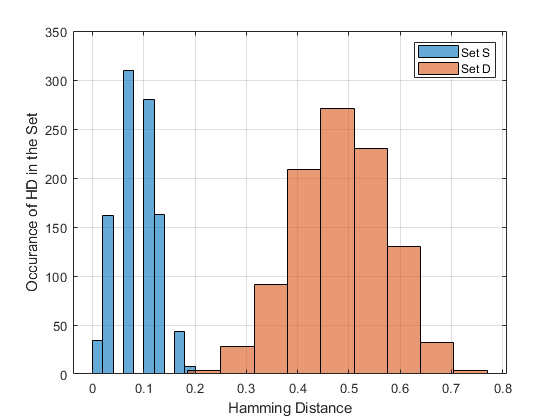
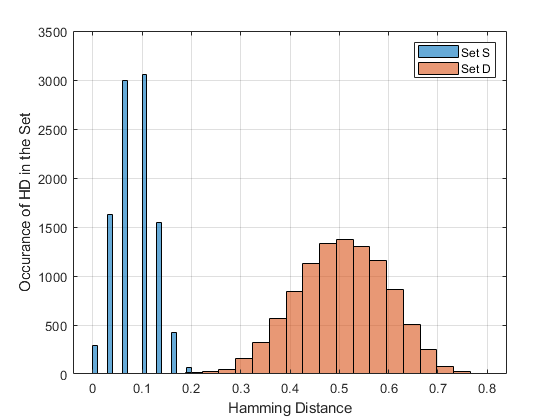
Fixed iteration to 10000

diff --git a/Assignment1/part_B.m b/Assignment1/part_B.m
@@ -1,5 +1,5 @@
 dinfo = dir('person*.mat');
-iterations = 1000;
+iterations = 10000;
 fileNames = {};
 seedData = {};
 for k = 1 : length(dinfo)
@@ -16,10 +16,10 @@ end
         personData = data.iriscode;
         data = personData(randperm(length(personData(:,1)),2),:);
         hd = pdist2(data(1,:), data(2,:), 'hamming');
-        numberOfDifferences = size(data, 2)*hd
+        numberOfDifferences = size(data, 2)*hd;
         fprintf("Computing the Hamming distance for person%02d.mat \n",randomPersonIndx)
         fprintf("Vectors selected \n")
-        data
+        %data
         fprintf("Hammind distance = %f \n", hd);
         fprintf("Number of missmatches in the bit position = %d \n", numberOfDifferences)
         s_set = [s_set; [fileNames(randomPersonIndx), data, hd, numberOfDifferences]];       
@@ -35,7 +35,7 @@ end
         person_j = tmpData_j.iriscode(randperm(length(personData(:,1)),1),:);
         
         hd =  pdist2(person_i,person_j, 'hamming');
-        numberOfDiff = size(person_i, 2)*hd
+        numberOfDiff = size(person_i, 2)*hd;
         
         fprintf("Computing the Hamming distance between person%02d.mat and person%02d.mat \n",randomPersons(1), randomPersons(2))
         fprintf("Vectors selected \n")
@@ -54,7 +54,7 @@ end
     [~, binD] = histcounts(hd_d);
     bins = floor(min(size(binS, 2), size(binD, 2))/2);
     fprintf("\n---------------------------------BINS USED TO PLOT THE HISTOGRAM-----------------------------------\n")
-    fprintf("BINS = %d", bins);
+    fprintf("BINS = %d\n", bins);
     fprintf("---------------------------------------------------------------------------------------------------\n")
 
     
@@ -101,17 +101,9 @@ end
     normcdf_D = normcdf(hd_d, mean(hd_d), std(hd_d));
     far={};
     fprintf("\n--------------------------------------FAR-----------------------------------------------\n")
-    fprintf("At FAR = 0.0005 the HD = 0.20 was consistently obtained\n");
-    fprintf("Due to the randomness of the simulation the values within the range of 0.0005-0.0008 \n can be observed below:\n");
-    fprintf("This range was picked as the HD was at a stable 0.20\n\n");
+    fprintf("Find the Hamming Distance threshold when FAR = 0.0005\n");
     for i=1:length(hd_d)
-        % Set the acceptance error to 0.0008 as there is consistent result
-        % around the frame 0.0005-0.0008, and the result remains the same
-        % HD threshold = 0.20
-        % (rare scenario)
-        % If this printf does not print anything, run the simulation again.
-        % due to randomness sometimes we do not get a value under 0.0008
-        if normcdf_D(i) <= 0.0008 && normcdf_D(i) >= 0.00045
+        if fix(normcdf_D(i)*1e4)/1e4 == fix(0.0005*1e4)/1e4
             far = [far; [normcdf_D(i), hd_d(i)]];
             fprintf(" => False Acceptance Rate = %f for HD = %f\n", normcdf_D(i), hd_d(i))
         end
